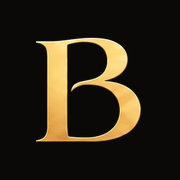
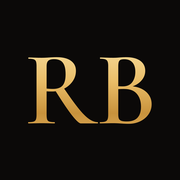
Rebrand to RB Productions; mention the many more studios; address without the house name

Changed region(s): [[0.1389, 0.1944, 0.8611, 0.8056]]

diff --git a/about.html b/about.html
@@ -3,17 +3,17 @@
 <head>
 <meta charset="utf-8">
 <meta name="viewport" content="width=device-width, initial-scale=1">
-<title>About — Banaras Productions</title>
-<meta name="description" content="Banaras Productions is a wedding film studio for couples who want a film, not a slideshow of their day.">
+<title>About — RB Productions</title>
+<meta name="description" content="RB Productions is a wedding film studio for couples who want a film, not a slideshow of their day.">
 <meta name="theme-color" content="#0b0908">
 <meta property="og:type" content="website">
-<meta property="og:site_name" content="Banaras Productions">
-<meta property="og:title" content="About — Banaras Productions">
-<meta property="og:description" content="Banaras Productions is a wedding film studio for couples who want a film, not a slideshow of their day.">
-<meta property="og:image" content="https://banarasproductions.github.io/assets/og-image.jpg">
+<meta property="og:site_name" content="RB Productions">
+<meta property="og:title" content="About — RB Productions">
+<meta property="og:description" content="RB Productions is a wedding film studio for couples who want a film, not a slideshow of their day.">
+<meta property="og:image" content="https://rbproductionsin.github.io/assets/og-image.jpg">
 <meta property="og:image:width" content="1200">
 <meta property="og:image:height" content="630">
-<meta property="og:image:alt" content="Banaras Productions logo">
+<meta property="og:image:alt" content="RB Productions logo">
 <meta name="twitter:card" content="summary_large_image">
 <script>document.documentElement.className += ' js is-loading';</script>
 <link rel="icon" href="assets/favicon-32.png" sizes="32x32" type="image/png">
@@ -24,7 +24,7 @@
 <script src="assets/js/main.js" defer></script>
 </head>
 <body data-page="about">
-<noscript><nav class="noscript-nav" aria-label="Primary"><a href="index.html">Banaras Productions</a><a href="films.html">Films</a><a href="about.html">About</a><a href="contact.html">Contact</a><a href="mailto:hello@banarasproductions.com">hello@banarasproductions.com</a></nav></noscript>
+<noscript><nav class="noscript-nav" aria-label="Primary"><a href="index.html">RB Productions</a><a href="films.html">Films</a><a href="about.html">About</a><a href="contact.html">Contact</a><a href="mailto:hello@rbproductions.in">hello@rbproductions.in</a></nav></noscript>
 <main id="main" class="page">
 
   <section class="page-head">
@@ -46,11 +46,11 @@
       <h2 class="eyebrow">(01) The founder</h2>
       <p class="founder__title" id="founder-title">The eye behind <em>every frame.</em></p>
       <div class="founder__story">
-        <p class="lead">Banaras Productions is led by Retheesh P Raveendran, a leading wedding photographer and filmmaker who has filmed more than 800 weddings across 28 countries.</p>
+        <p class="lead">RB Productions is led by Retheesh P Raveendran, a leading wedding photographer and filmmaker who has filmed more than 800 weddings across 28 countries.</p>
         <p>His work has taken him from India and the UK to Dubai, Singapore, Sri Lanka, Malaysia, Germany and France — palace weddings, beach ceremonies, English country houses and city celebrations, each with its own rituals and its own light. He arrives already knowing that a sangeet in Dubai and a church wedding in the Cotswolds need a different camera, and the same patience.</p>
         <p>His approach is documentary at heart: watch closely, stay out of the way, and let real moments unfold on their own. Nothing is staged twice — the best moments never happen twice.</p>
-        <p>It began in 2012 with Scenario Movies, his first studio, making story-driven films. Scenario Movies became Banaras Weddings, and today it is Banaras Productions — weddings, films, commercial ads, product shoots and corporate events.</p>
-        <p>Along the way he has filmed for some of the finest names in weddings, including Keeley Wedding Films, Mystic Studios, Aaron Obed Photography, Sabyasachi, Paradise Visual Media and Surya Visual Media.</p>
+        <p>It began in 2012 with Scenario Movies, his first studio, making story-driven films. Scenario Movies became Banaras Weddings, and today it is RB Productions — weddings, films, commercial ads, product shoots and corporate events.</p>
+        <p>Along the way he has filmed for some of the finest names in weddings, including Keeley Wedding Films, Mystic Studios, Aaron Obed Photography, Sabyasachi, Paradise Visual Media and Surya Visual Media — and many more studios, brands and families over the years.</p>
         <p>Couples and brands get an artist’s eye with a business owner’s discipline — clear plans, honest timelines and straight answers, and a film remembered the way the day felt.</p>
       </div>
       <dl class="founder__facts" data-facts>
@@ -71,7 +71,7 @@
   <section class="about-lead grid-12">
     <figure class="about-lead__media reveal"><img data-film-still="gokul-athira" alt="" loading="lazy" decoding="async"></figure>
     <div class="about-lead__text reveal">
-      <p class="lead">Banaras Productions is a film studio for couples and brands who want a film — not a slideshow.</p>
+      <p class="lead">RB Productions is a film studio for couples and brands who want a film — not a slideshow.</p>
       <p>Our films have taken us from a Tirupur wedding and the lawns of Lodhi Gardens to an English country house and a Cotswolds church. The places change. The approach doesn’t: stay close, stay quiet, and let the day tell its own story.</p>
       <p><a class="link-arrow" href="films.html">Watch the films</a></p>
     </div>

diff --git a/index.html b/index.html
@@ -3,17 +3,17 @@
 <head>
 <meta charset="utf-8">
 <meta name="viewport" content="width=device-width, initial-scale=1">
-<title>Banaras Productions — Wedding Films, Commercials &amp; More</title>
-<meta name="description" content="Banaras Productions is a wedding film studio making cinematic wedding films, poetry films, commercial ads, product shoots and corporate events in India and abroad.">
+<title>RB Productions — Wedding Films, Commercials &amp; More</title>
+<meta name="description" content="RB Productions is a wedding film studio making cinematic wedding films, poetry films, commercial ads, product shoots and corporate events in India and abroad.">
 <meta name="theme-color" content="#0b0908">
 <meta property="og:type" content="website">
-<meta property="og:site_name" content="Banaras Productions">
-<meta property="og:title" content="Banaras Productions — Wedding Films, Commercials &amp; More">
-<meta property="og:description" content="Banaras Productions is a wedding film studio making cinematic wedding films, poetry films, commercial ads, product shoots and corporate events in India and abroad.">
-<meta property="og:image" content="https://banarasproductions.github.io/assets/og-image.jpg">
+<meta property="og:site_name" content="RB Productions">
+<meta property="og:title" content="RB Productions — Wedding Films, Commercials &amp; More">
+<meta property="og:description" content="RB Productions is a wedding film studio making cinematic wedding films, poetry films, commercial ads, product shoots and corporate events in India and abroad.">
+<meta property="og:image" content="https://rbproductionsin.github.io/assets/og-image.jpg">
 <meta property="og:image:width" content="1200">
 <meta property="og:image:height" content="630">
-<meta property="og:image:alt" content="Banaras Productions logo">
+<meta property="og:image:alt" content="RB Productions logo">
 <meta name="twitter:card" content="summary_large_image">
 <script>document.documentElement.className += ' js is-loading';</script>
 <link rel="icon" href="assets/favicon-32.png" sizes="32x32" type="image/png">
@@ -22,12 +22,12 @@
 <link rel="preconnect" href="https://www.youtube.com">
 <link rel="preconnect" href="https://www.youtube-nocookie.com">
 <link rel="stylesheet" href="assets/css/style.css">
-<script type="application/ld+json">{"@context": "https://schema.org", "@type": "ProfessionalService", "name": "Banaras Productions", "description": "Wedding films, pre-wedding and poetry films, commercial ads, product shoots and corporate events — in India and abroad.", "url": "https://banarasproductions.github.io/", "image": "https://banarasproductions.github.io/assets/og-image.jpg", "telephone": "+91 79074 67317", "founder": {"@type": "Person", "name": "Retheesh P Raveendran"}, "foundingDate": "2012", "address": {"@type": "PostalAddress", "streetAddress": "Riyas Nivas, Kunnathery Thikavu", "addressLocality": "Aluva", "addressRegion": "Kerala", "postalCode": "683106", "addressCountry": "IN"}, "areaServed": ["India", "United Kingdom", "United Arab Emirates", "Singapore", "Sri Lanka", "Malaysia", "Germany", "France"]}</script>
+<script type="application/ld+json">{"@context": "https://schema.org", "@type": "ProfessionalService", "name": "RB Productions", "description": "Wedding films, pre-wedding and poetry films, commercial ads, product shoots and corporate events — in India and abroad.", "url": "https://rbproductionsin.github.io/", "image": "https://rbproductionsin.github.io/assets/og-image.jpg", "telephone": "+91 79074 67317", "founder": {"@type": "Person", "name": "Retheesh P Raveendran"}, "foundingDate": "2012", "address": {"@type": "PostalAddress", "streetAddress": "Kunnathery Thikavu", "addressLocality": "Aluva", "addressRegion": "Kerala", "postalCode": "683106", "addressCountry": "IN"}, "areaServed": ["India", "United Kingdom", "United Arab Emirates", "Singapore", "Sri Lanka", "Malaysia", "Germany", "France"]}</script>
 <script src="assets/js/data.js"></script>
 <script src="assets/js/main.js" defer></script>
 </head>
 <body data-page="home">
-<noscript><nav class="noscript-nav" aria-label="Primary"><a href="index.html">Banaras Productions</a><a href="films.html">Films</a><a href="about.html">About</a><a href="contact.html">Contact</a><a href="mailto:hello@banarasproductions.com">hello@banarasproductions.com</a></nav></noscript>
+<noscript><nav class="noscript-nav" aria-label="Primary"><a href="index.html">RB Productions</a><a href="films.html">Films</a><a href="about.html">About</a><a href="contact.html">Contact</a><a href="mailto:hello@rbproductions.in">hello@rbproductions.in</a></nav></noscript>
 <main id="main">
 
   <section class="hero" data-hero>
@@ -228,6 +228,7 @@
       <h2 class="eyebrow">(05) Worked with</h2>
     </div>
     <ul class="worked-with reveal" data-worked-with></ul>
+    <p class="worked-with__note reveal">…and many more studios, brands and families, <em>across 28 countries.</em></p>
   </section>
 
   <section class="section" style="padding-top:0">

diff --git a/contact.html b/contact.html
@@ -3,29 +3,29 @@
 <head>
 <meta charset="utf-8">
 <meta name="viewport" content="width=device-width, initial-scale=1">
-<title>Contact — Banaras Productions</title>
-<meta name="description" content="Enquire about a wedding or pre-wedding film with Banaras Productions.">
+<title>Contact — RB Productions</title>
+<meta name="description" content="Enquire about a wedding or pre-wedding film with RB Productions.">
 <meta name="theme-color" content="#0b0908">
 <meta property="og:type" content="website">
-<meta property="og:site_name" content="Banaras Productions">
-<meta property="og:title" content="Contact — Banaras Productions">
-<meta property="og:description" content="Enquire about a wedding or pre-wedding film with Banaras Productions.">
-<meta property="og:image" content="https://banarasproductions.github.io/assets/og-image.jpg">
+<meta property="og:site_name" content="RB Productions">
+<meta property="og:title" content="Contact — RB Productions">
+<meta property="og:description" content="Enquire about a wedding or pre-wedding film with RB Productions.">
+<meta property="og:image" content="https://rbproductionsin.github.io/assets/og-image.jpg">
 <meta property="og:image:width" content="1200">
 <meta property="og:image:height" content="630">
-<meta property="og:image:alt" content="Banaras Productions logo">
+<meta property="og:image:alt" content="RB Productions logo">
 <meta name="twitter:card" content="summary_large_image">
 <script>document.documentElement.className += ' js is-loading';</script>
 <link rel="icon" href="assets/favicon-32.png" sizes="32x32" type="image/png">
 <link rel="icon" href="assets/favicon-192.png" sizes="192x192" type="image/png">
 <link rel="apple-touch-icon" href="assets/apple-touch-icon.png">
 <link rel="stylesheet" href="assets/css/style.css">
-<script type="application/ld+json">{"@context": "https://schema.org", "@type": "ProfessionalService", "name": "Banaras Productions", "description": "Wedding films, pre-wedding and poetry films, commercial ads, product shoots and corporate events — in India and abroad.", "url": "https://banarasproductions.github.io/", "image": "https://banarasproductions.github.io/assets/og-image.jpg", "telephone": "+91 79074 67317", "founder": {"@type": "Person", "name": "Retheesh P Raveendran"}, "foundingDate": "2012", "address": {"@type": "PostalAddress", "streetAddress": "Riyas Nivas, Kunnathery Thikavu", "addressLocality": "Aluva", "addressRegion": "Kerala", "postalCode": "683106", "addressCountry": "IN"}, "areaServed": ["India", "United Kingdom", "United Arab Emirates", "Singapore", "Sri Lanka", "Malaysia", "Germany", "France"]}</script>
+<script type="application/ld+json">{"@context": "https://schema.org", "@type": "ProfessionalService", "name": "RB Productions", "description": "Wedding films, pre-wedding and poetry films, commercial ads, product shoots and corporate events — in India and abroad.", "url": "https://rbproductionsin.github.io/", "image": "https://rbproductionsin.github.io/assets/og-image.jpg", "telephone": "+91 79074 67317", "founder": {"@type": "Person", "name": "Retheesh P Raveendran"}, "foundingDate": "2012", "address": {"@type": "PostalAddress", "streetAddress": "Kunnathery Thikavu", "addressLocality": "Aluva", "addressRegion": "Kerala", "postalCode": "683106", "addressCountry": "IN"}, "areaServed": ["India", "United Kingdom", "United Arab Emirates", "Singapore", "Sri Lanka", "Malaysia", "Germany", "France"]}</script>
 <script src="assets/js/data.js" defer></script>
 <script src="assets/js/main.js" defer></script>
 </head>
 <body data-page="contact">
-<noscript><nav class="noscript-nav" aria-label="Primary"><a href="index.html">Banaras Productions</a><a href="films.html">Films</a><a href="about.html">About</a><a href="contact.html">Contact</a><a href="mailto:hello@banarasproductions.com">hello@banarasproductions.com</a></nav></noscript>
+<noscript><nav class="noscript-nav" aria-label="Primary"><a href="index.html">RB Productions</a><a href="films.html">Films</a><a href="about.html">About</a><a href="contact.html">Contact</a><a href="mailto:hello@rbproductions.in">hello@rbproductions.in</a></nav></noscript>
 <main id="main" class="page">
 
   <section class="page-head">

diff --git a/films.html b/films.html
@@ -3,17 +3,17 @@
 <head>
 <meta charset="utf-8">
 <meta name="viewport" content="width=device-width, initial-scale=1">
-<title>Films — Banaras Productions</title>
-<meta name="description" content="Wedding films, poetry films, commercials and more by Banaras Productions.">
+<title>Films — RB Productions</title>
+<meta name="description" content="Wedding films, poetry films, commercials and more by RB Productions.">
 <meta name="theme-color" content="#0b0908">
 <meta property="og:type" content="website">
-<meta property="og:site_name" content="Banaras Productions">
-<meta property="og:title" content="Films — Banaras Productions">
-<meta property="og:description" content="Wedding films, poetry films, commercials and more by Banaras Productions.">
-<meta property="og:image" content="https://banarasproductions.github.io/assets/og-image.jpg">
+<meta property="og:site_name" content="RB Productions">
+<meta property="og:title" content="Films — RB Productions">
+<meta property="og:description" content="Wedding films, poetry films, commercials and more by RB Productions.">
+<meta property="og:image" content="https://rbproductionsin.github.io/assets/og-image.jpg">
 <meta property="og:image:width" content="1200">
 <meta property="og:image:height" content="630">
-<meta property="og:image:alt" content="Banaras Productions logo">
+<meta property="og:image:alt" content="RB Productions logo">
 <meta name="twitter:card" content="summary_large_image">
 <script>document.documentElement.className += ' js is-loading';</script>
 <link rel="icon" href="assets/favicon-32.png" sizes="32x32" type="image/png">
@@ -26,7 +26,7 @@
 <script src="assets/js/main.js" defer></script>
 </head>
 <body data-page="films">
-<noscript><nav class="noscript-nav" aria-label="Primary"><a href="index.html">Banaras Productions</a><a href="films.html">Films</a><a href="about.html">About</a><a href="contact.html">Contact</a><a href="mailto:hello@banarasproductions.com">hello@banarasproductions.com</a></nav></noscript>
+<noscript><nav class="noscript-nav" aria-label="Primary"><a href="index.html">RB Productions</a><a href="films.html">Films</a><a href="about.html">About</a><a href="contact.html">Contact</a><a href="mailto:hello@rbproductions.in">hello@rbproductions.in</a></nav></noscript>
 <main id="main" class="page">
 
   <section class="page-head">
@@ -34,7 +34,7 @@
     <h1 class="page-title">Every film,<br><em>a love story</em><sup aria-hidden="true">(<span data-count>07</span>)</sup></h1>
     <div class="portfolio-intro grid-12">
       <blockquote class="portfolio-quote reveal">
-        <p>“Since 2012 I’ve filmed more than 800 weddings in 28 countries — from Kerala and Delhi to Dubai, Singapore, Sri Lanka, Malaysia, Germany, France and the English countryside. First as Scenario Movies, then as Banaras Weddings, and today as Banaras Productions.”</p>
+        <p>“Since 2012 I’ve filmed more than 800 weddings in 28 countries — from Kerala and Delhi to Dubai, Singapore, Sri Lanka, Malaysia, Germany, France and the English countryside. First as Scenario Movies, then as Banaras Weddings, and today as RB Productions.”</p>
         <footer class="eyebrow"><span data-founder-name>Retheesh P Raveendran</span> · Founder</footer>
       </blockquote>
       <div class="portfolio-side reveal">
@@ -43,6 +43,7 @@
         <p class="countries countries--compact" data-countries></p>
         <p class="eyebrow portfolio-side__label">Filmed for</p>
         <ul class="worked-with worked-with--compact" data-worked-with></ul>
+        <p class="worked-with__more">…and many more studios, brands and families.</p>
       </div>
     </div>
     <div class="toolbar">

diff --git a/assets/css/style.css b/assets/css/style.css
@@ -103,7 +103,7 @@ body:has(.player.is-playing)::after { display: none; }
 .menu-open .site-header { transform: none; }
 .brand { display: inline-flex; align-items: center; line-height: 1; }
 .brand__word { flex: none; display: block; }
-.brand__word img { width: 186px; height: 44px; }
+.brand__word img { width: 115px; height: 54px; }
 .site-header__right { display: flex; align-items: center; gap: clamp(14px, 2.4vw, 32px); }
 .site-header { align-items: center; }
 .top-nav { display: flex; align-items: center; gap: clamp(18px, 2.6vw, 42px); margin: 0 clamp(18px, 2.8vw, 44px) 0 auto; transition: opacity .4s, visibility 0s; }
@@ -407,6 +407,7 @@ body:has(.player.is-playing)::after { display: none; }
 .worked-with--compact { grid-template-columns: repeat(2, minmax(0, 1fr)); }
 .worked-with--compact li { padding: 12px 0; font-size: clamp(18px, 1.5vw, 23px); color: var(--ink-2); }
 .worked-with__note { margin-top: 24px; font: 500 12px/1.4 var(--sans); letter-spacing: .22em; text-transform: uppercase; color: var(--muted); }
+.worked-with__more { margin: 14px 0 0; font: italic 300 18px/1.4 var(--serif); color: var(--ink-2); }
 .worked-with__note em { font: italic 400 22px/1 var(--serif); letter-spacing: 0; text-transform: none; color: var(--accent); }
 
 /* ---------- Product demos (AI concept films) ---------- */
@@ -509,7 +510,7 @@ body:has(.player.is-playing)::after { display: none; }
 .footer__mail { font: 300 clamp(28px, 3.4vw, 56px)/1.1 var(--serif); letter-spacing: -.01em; overflow-wrap: anywhere; background: linear-gradient(currentColor, currentColor) 0 100% / 0 1px no-repeat; transition: background-size .6s var(--ease-out); }
 .footer__mail:hover { background-size: 100% 1px; }
 .footer__brand { display: flex; justify-content: center; margin: clamp(64px, 9vw, 140px) 0 clamp(40px, 5vw, 76px); }
-.footer__word { width: min(100%, 760px); }
+.footer__word { width: min(100%, 440px); }
 .footer__word img { width: 100%; height: auto; }
 .footer__bottom { display: flex; flex-wrap: wrap; justify-content: space-between; gap: 12px 32px; padding-top: 20px; border-top: 1px solid var(--line); font: 500 11px/1.4 var(--sans); letter-spacing: .16em; text-transform: uppercase; color: var(--muted); }
 .footer__bottom a { transition: color .3s; }
@@ -592,7 +593,7 @@ body:has(.player.is-playing)::after { display: none; }
 
 /* Small phones (320–374px): a slightly smaller header wordmark. */
 @media (max-width: 374px) {
-  .brand__word img { width: 160px; height: 38px; }
+  .brand__word img { width: 98px; height: 46px; }
   .section-head { flex-direction: column; gap: 12px; }
 }
 

diff --git a/film.html b/film.html
@@ -3,17 +3,17 @@
 <head>
 <meta charset="utf-8">
 <meta name="viewport" content="width=device-width, initial-scale=1">
-<title>Film — Banaras Productions</title>
-<meta name="description" content="Wedding films, poetry films, commercials and more by Banaras Productions.">
+<title>Film — RB Productions</title>
+<meta name="description" content="Wedding films, poetry films, commercials and more by RB Productions.">
 <meta name="theme-color" content="#0b0908">
 <meta property="og:type" content="website">
-<meta property="og:site_name" content="Banaras Productions">
-<meta property="og:title" content="Films — Banaras Productions">
-<meta property="og:description" content="Wedding films, poetry films, commercials and more by Banaras Productions.">
-<meta property="og:image" content="https://banarasproductions.github.io/assets/og-image.jpg">
+<meta property="og:site_name" content="RB Productions">
+<meta property="og:title" content="Films — RB Productions">
+<meta property="og:description" content="Wedding films, poetry films, commercials and more by RB Productions.">
+<meta property="og:image" content="https://rbproductionsin.github.io/assets/og-image.jpg">
 <meta property="og:image:width" content="1200">
 <meta property="og:image:height" content="630">
-<meta property="og:image:alt" content="Banaras Productions logo">
+<meta property="og:image:alt" content="RB Productions logo">
 <meta name="twitter:card" content="summary_large_image">
 <script>document.documentElement.className += ' js is-loading';</script>
 <link rel="icon" href="assets/favicon-32.png" sizes="32x32" type="image/png">
@@ -26,7 +26,7 @@
 <script src="assets/js/main.js" defer></script>
 </head>
 <body data-page="film">
-<noscript><nav class="noscript-nav" aria-label="Primary"><a href="index.html">Banaras Productions</a><a href="films.html">Films</a><a href="about.html">About</a><a href="contact.html">Contact</a><a href="mailto:hello@banarasproductions.com">hello@banarasproductions.com</a></nav></noscript>
+<noscript><nav class="noscript-nav" aria-label="Primary"><a href="index.html">RB Productions</a><a href="films.html">Films</a><a href="about.html">About</a><a href="contact.html">Contact</a><a href="mailto:hello@rbproductions.in">hello@rbproductions.in</a></nav></noscript>
 <main id="main" data-film-page></main>
 </body>
 </html>

diff --git a/assets/js/data.js b/assets/js/data.js
@@ -1,19 +1,19 @@
 // Everything the site shows lives here. Add a film by adding one entry to `films`.
 window.BW = {
   studio: {
-    name: 'Banaras Productions',
+    name: 'RB Productions',
     tagline: 'Weddings, films & commercials — India & abroad',
-    // The email is still a placeholder — replace before sharing the site.
-    email: 'hello@banarasproductions.com',
+    // The email is still a placeholder (no rbproductions.in mailbox yet) — replace before sharing the site.
+    email: 'hello@rbproductions.in',
     phone: '+91 79074 67317',
     // WhatsApp: the same number in international form, digits only, and the
     // message a chat opens with (the visitor can edit it before sending).
     whatsapp: '917907467317',
-    whatsappMessage: 'Hi Banaras Productions! I found you through your website and would love to talk about a film.',
+    whatsappMessage: 'Hi RB Productions! I found you through your website and would love to talk about a film.',
     // The studio's registered address. Shown on Contact and in the footer, and
     // given to search engines as the business address.
     address: {
-      street: 'Riyas Nivas, Kunnathery Thikavu',
+      street: 'RB Productions, Kunnathery Thikavu',
       locality: 'Aluva',
       region: 'Kerala',
       postalCode: '683106',
@@ -34,7 +34,7 @@ window.BW = {
     { value: '800+', label: 'Weddings filmed' },
     { value: '28', label: 'Countries' },
     { value: '2012', label: 'Filming since' },
-    { value: '6', label: 'Studios filmed for' }
+    { value: '6+', label: 'Studios filmed for' }
   ],
   // Where the founder has filmed. Shown as "Filmed in …" with the rest of the
   // 28 counted as "more countries".
@@ -124,7 +124,7 @@ window.BW = {
       category: 'Wedding',
       place: '',
       kicker: 'From the Scenario Movies archive.',
-      note: 'Cinematic wedding highlights for Ashwin and Sonali, made under Scenario Movies — the studio that grew into Banaras Productions.',
+      note: 'Cinematic wedding highlights for Ashwin and Sonali, made under Scenario Movies — the studio that grew into RB Productions.',
       channel: 'Scenario Movies',
       creditLabel: 'Made by'
     },

diff --git a/assets/js/main.js b/assets/js/main.js
@@ -390,7 +390,7 @@
   const waLink = () => {
     const film = page === 'film' ? bySlug(new URLSearchParams(location.search).get('f')) : null;
     const text = film
-      ? `Hi Banaras Productions! I just watched “${film.title}” on your website and would love to talk about a film.`
+      ? `Hi RB Productions! I just watched “${film.title}” on your website and would love to talk about a film.`
       : studio.whatsappMessage || '';
     return `https://wa.me/${encodeURIComponent(studio.whatsapp)}${text ? `?text=${encodeURIComponent(text)}` : ''}`;
   };
@@ -406,7 +406,7 @@
       <a class="skip-link" href="#main" data-skip>Skip to content</a>
       <header class="site-header">
         <a class="brand" href="index.html" aria-label="${esc(studio.name)} — home">
-          <picture class="brand__word"><source srcset="assets/wordmark.webp" type="image/webp"><img src="assets/wordmark.png" alt="" width="186" height="44"></picture>
+          <picture class="brand__word"><source srcset="assets/wordmark.webp" type="image/webp"><img src="assets/wordmark.png" alt="" width="115" height="54"></picture>
         </a>
         <nav class="top-nav" aria-label="Primary">
           ${NAV.map(n => `<a class="top-nav__link" href="${n.href}"${n.page === page ? ' aria-current="page"' : ''}>${n.label}</a>`).join('')}
@@ -460,7 +460,7 @@
           ${socials ? `<div class="footer__col"><h2 class="eyebrow">Follow</h2>${socials}</div>` : ''}
         </div>
         <div class="footer__brand" aria-hidden="true">
-          <picture class="footer__word"><source srcset="assets/wordmark-lg.webp" type="image/webp"><img src="assets/wordmark-lg.png" alt="" width="1187" height="281" loading="lazy" decoding="async"></picture>
+          <picture class="footer__word"><source srcset="assets/wordmark-lg.webp" type="image/webp"><img src="assets/wordmark-lg.png" alt="" width="1278" height="600" loading="lazy" decoding="async"></picture>
         </div>
         <div class="footer__bottom">
           <span>© ${new Date().getFullYear()} ${esc(studio.name)}</span>
